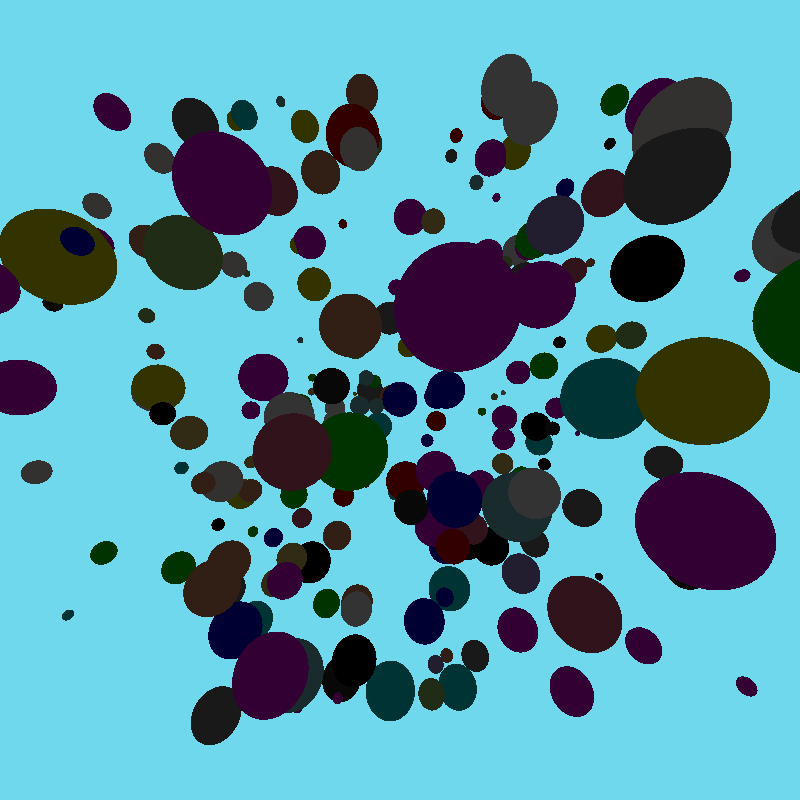
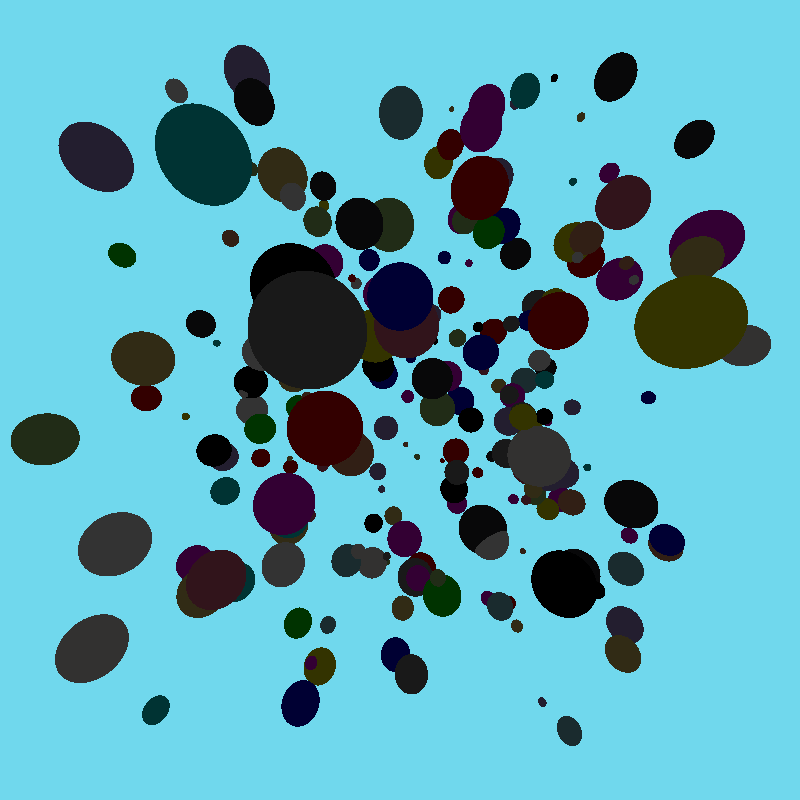
changes

diff --git a/src/gui/App.java b/src/gui/App.java
@@ -30,8 +30,9 @@ public class App extends JFrame implements ActionListener, ChangeListener {
     JFileChooser chooser = new JFileChooser("./scenes/");
     JPanel panel = new JPanel();
     ImagePanel images = new ImagePanel();
+    Viewport viewport = new Viewport(800,800);
 
-    int RND_COUNT = 250;
+    int randomCount = 250;
 
     public App(){
         int btnWidth = 160;
@@ -68,6 +69,7 @@ public class App extends JFrame implements ActionListener, ChangeListener {
 
         panel.setBounds(100, 100, 800, 800);
         panel.add(images);
+        panel.add(viewport);
         add(panel);
         
         setDefaultCloseOperation(JFrame.EXIT_ON_CLOSE);
@@ -83,12 +85,14 @@ public class App extends JFrame implements ActionListener, ChangeListener {
         if(e.getSource() == render || e.getSource() == field) {
             Scene s = new Scene("./scenes/"+field.getText()+".json");
 
-            s.makeImage(new AmbientShader());
-            s.makeImage(new DiffuseShader());
-            s.makeImage(new SpecularShader());
-            s.makeImage(new PhongShader());
+            viewport.render(s, new PhongShader());
 
-            images.getNewImages();
+            // viewport.renderToFile(s, new AmbientShader(), false);
+            // viewport.renderToFile(s, new DiffuseShader(), false);
+            // viewport.renderToFile(s, new SpecularShader(),false);
+            // viewport.renderToFile(s, new PhongShader(),   false);
+
+            // images.getNewImages();
         }else if(e.getSource() == open){
             chooser.setFileSelectionMode(JFileChooser.FILES_ONLY);
             
@@ -103,14 +107,16 @@ public class App extends JFrame implements ActionListener, ChangeListener {
                 field.setText(s);
             } else System.out.println("Open command cancelled by user.");
         }else if(e.getSource() == random){
-            Scene s = Scene.randomSpheres(RND_COUNT);
+            Scene s = Scene.randomSpheres(randomCount);
 
-            s.makeImage(new AmbientShader());
-            s.makeImage(new DiffuseShader());
-            s.makeImage(new SpecularShader());
-            s.makeImage(new PhongShader());
+            viewport.render(s, new PhongShader());
 
-            images.getNewImages();
+            // viewport.renderToFile(s, new AmbientShader(), false);
+            // viewport.renderToFile(s, new DiffuseShader(), false);
+            // viewport.renderToFile(s, new SpecularShader(),false);
+            // viewport.renderToFile(s, new PhongShader(),   false);
+
+            // images.getNewImages();
         }
         
     }
@@ -118,7 +124,7 @@ public class App extends JFrame implements ActionListener, ChangeListener {
     @Override
     public void stateChanged(ChangeEvent e) {
         if(e.getSource() == slider){
-            RND_COUNT = slider.getValue();
+            randomCount = slider.getValue();
         }
     }
 }

diff --git a/src/gui/Viewport.java b/src/gui/Viewport.java
@@ -1,0 +1,59 @@
+package gui;
+import java.awt.Graphics;
+import java.awt.image.BufferedImage;
+import java.io.File;
+
+import javax.imageio.ImageIO;
+import javax.swing.ImageIcon;
+import javax.swing.JLabel;
+import javax.swing.JPanel;
+
+import raytracer.Scene;
+import shader.Shader;
+
+public class Viewport extends JPanel{
+    BufferedImage frameBuffer;
+    ImageIcon image;
+    JLabel label;
+
+    public Viewport(int width, int height){
+        setVisible(true);
+        setSize(width, height);
+        frameBuffer = new BufferedImage(getWidth(),getHeight(),BufferedImage.TYPE_INT_RGB);
+        
+    }
+
+    public void render(Scene scene, Shader shader){
+        // while(true){
+            BufferedImage tempBuffer = new BufferedImage(getWidth(),getHeight(),BufferedImage.TYPE_INT_RGB);
+            scene.renderImage(shader, tempBuffer);
+            frameBuffer = tempBuffer;
+            repaint();
+        // }
+    }
+
+    @Override
+    public void paint(Graphics g) {
+        image.setImage(frameBuffer);
+        label = new JLabel(image);
+        add(label);
+        g.drawImage(frameBuffer, 0, 0, this);
+    }
+    
+    public void renderToFile(Scene scene, Shader shader, boolean timed){
+        String name = shader.getName();
+
+        long start = System.nanoTime();
+        scene.renderImage(shader, frameBuffer);
+        if(timed) System.out.printf("%s Rendering took: %s ms%n",name, (System.nanoTime()-start)/1_000_000);
+
+        start = System.nanoTime();
+        writeImage(name);
+        if(timed) System.out.printf("%s Saving took:    %s ms%n",name, (System.nanoTime()-start)/1_000_000);
+    }
+
+    public void writeImage(String name){
+        File file = new File("./images/"+name+".png");
+        try { ImageIO.write(frameBuffer, "png", file); } catch (Exception e) {}
+    }
+}

diff --git a/src/raytracer/Scene.java b/src/raytracer/Scene.java
@@ -9,8 +9,6 @@ import java.util.Random;
 import java.util.concurrent.ExecutorService;
 import java.util.concurrent.Executors;
 
-import javax.imageio.ImageIO;
-
 import com.google.gson.Gson;
 import com.google.gson.GsonBuilder;
 
@@ -57,15 +55,11 @@ public class Scene {
 
     //#endregion
 
-    public void makeImage(Shader shader, boolean timed){
-        String name = shader.getName();
-        File file = new File("./images/"+name+".png");
+    public void renderImage(Shader shader, BufferedImage image){
         Camera camera = getCamera();
         int width = camera.getWidth();
         int height = camera.getHeight();
-        BufferedImage image = new BufferedImage(width, height, BufferedImage.TYPE_INT_RGB);
 
-        long start = System.nanoTime();
 
         int threadCount = Runtime.getRuntime().availableProcessors();
         ExecutorService exe =  Executors.newFixedThreadPool(threadCount);
@@ -76,16 +70,7 @@ public class Scene {
         exe.shutdown();
         while(!exe.isTerminated());
         
-        if(timed) {
-            System.out.printf("%s Rendering took: %s ms%n",name, (System.nanoTime()-start)/1_000_000);
-            start = System.nanoTime();
-        }
-        
-        try { ImageIO.write(image, "png", file); } catch (Exception e) {}
-        
-        // if(timed) System.out.printf("%s Saving took:    %s ms%n",name, (System.nanoTime()-start)/1_000_000);
     }
-    public void makeImage(Shader shader){ makeImage(shader, false);}
 
     public void toJson(String name){
         try {

diff --git a/src/gui/ImagePanel.java b/src/gui/ImagePanel.java
@@ -16,10 +16,10 @@ public class ImagePanel extends JPanel{
     }
 
     public void getNewImages(){
-        images[0] = new ImageIcon("./images/AmbientShader.png",  "Ambient Color");
-        images[1] = new ImageIcon("./images/DiffuseShader.png",  "Diffuse Color");
-        images[2] = new ImageIcon("./images/SpecularShader.png", "Specular Color");
-        images[3] = new ImageIcon("./images/PhongShader.png",    "Light Color");
+        images[0] = new ImageIcon("./images/AmbientShader.png");
+        images[1] = new ImageIcon("./images/DiffuseShader.png");
+        images[2] = new ImageIcon("./images/SpecularShader.png");
+        images[3] = new ImageIcon("./images/PhongShader.png");
 
         for (ImageIcon image : images)
             image.setImage(image.getImage().getScaledInstance(400, 400, Image.SCALE_DEFAULT));

diff --git a/src/Main.java b/src/Main.java
@@ -36,13 +36,13 @@ class Main {
         
         // #region make Image
 
-        // s.makeImage(new AmbientShader());
+        // s.renderImage(new AmbientShader());
 
-        // s.makeImage(new DiffuseShader());
+        // s.renderImage(new DiffuseShader());
 
-        // s.makeImage(new SpecularShader());
+        // s.renderImage(new SpecularShader());
 
-        // s.makeImage(new PhongShader());
+        // s.renderImage(new PhongShader());
         //#endregion
         
         new App();
@@ -50,7 +50,7 @@ class Main {
         //#region testing speed
         // Scene s = Scene.randomSpheres(100);
         // for (int i = 0; i < 10; i++)
-        //     s.makeImage(new PhongShader(),true);
+        //     s.renderImage(new PhongShader(),true);
         //#endregion
     }
 }

diff --git a/src/math/Color.java b/src/math/Color.java
@@ -1,6 +1,7 @@
 package math;
 
 public class Color extends Tuple {
+    //#region Constants
     public static Color RED     = new Color(1, 0, 0);
     public static Color GREEN   = new Color(0, 1, 0);
     public static Color BLUE    = new Color(0, 0, 1);
@@ -19,7 +20,8 @@ public class Color extends Tuple {
     public static Color PURPLE = new Color(0.69, 0.6, 0.94);
     public static Color DARK   = new Color(0.17, 0.16, 0.18);
     public static Color LIGHT  = new Color(0.99, 0.98, 0.95);
-
+    //#endregion
+    
     public Color(double r, double g, double b){ 
         super(r,g,b,-1);
     }
